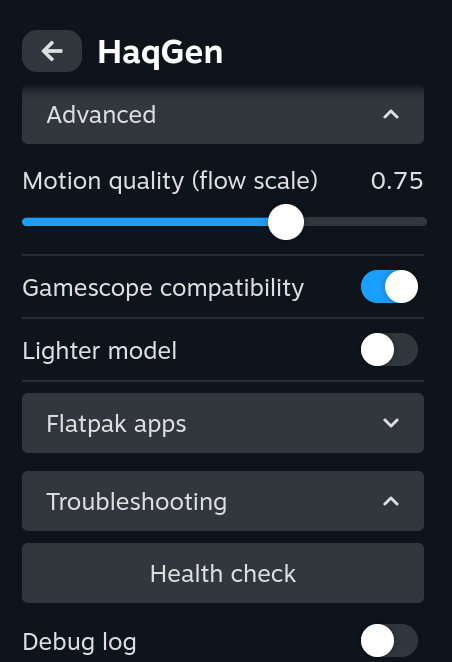
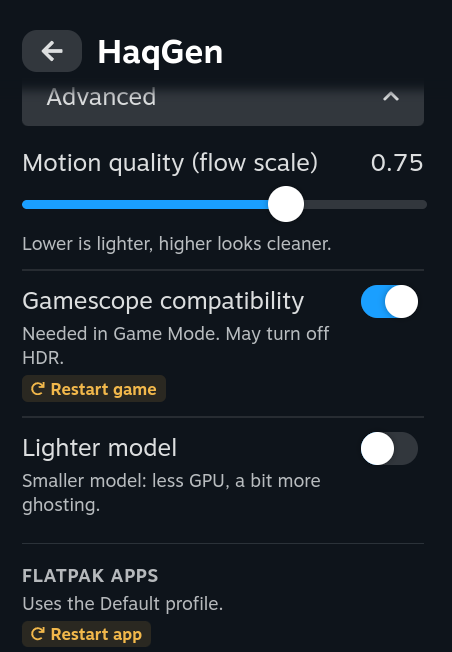
Update the site for version 0.1.3

diff --git a/index.html b/index.html
@@ -26,7 +26,7 @@
     "description": "Decky Loader plugin that sets up and controls Lossless Scaling frame generation (lsfg-vk) on the Steam Deck.",
     "applicationCategory": "GameApplication",
     "operatingSystem": "SteamOS",
-    "softwareVersion": "0.1.2",
+    "softwareVersion": "0.1.3",
     "url": "https://enotherms.github.io/HaqGen/",
     "downloadUrl": "https://github.com/Enotherms/HaqGen/releases",
     "codeRepository": "https://github.com/Enotherms/HaqGen",
@@ -189,7 +189,7 @@
 
   <header class="wrap hero">
     <div>
-      <span class="badge"><span class="dot"></span>Version 0.1.2 · Free and open source</span>
+      <span class="badge"><span class="dot"></span>Version 0.1.3 · Free and open source</span>
       <div class="brand">
         <img src="logo.svg" alt="HaqGen logo" width="72" height="72">
         <h1>HaqGen</h1>
@@ -208,8 +208,8 @@
       <p class="meta">Decky Loader plugin · Lossless Scaling (lsfg-vk) · Optional HaqEngine</p>
     </div>
     <div class="shots">
-      <figure class="shot"><img src="screenshot-main.png" alt="HaqGen main controls: profile, frame generation slider and presets" width="452" height="660"></figure>
-      <figure class="shot back"><img src="screenshot-advanced.png" alt="HaqGen advanced settings and troubleshooting" width="452" height="662"></figure>
+      <figure class="shot"><img src="screenshot-main.png" alt="HaqGen frame generation controls: profile, multiplier and restart note" width="452" height="660"></figure>
+      <figure class="shot back"><img src="screenshot-advanced.png" alt="HaqGen advanced settings with short descriptions and restart notes" width="452" height="652"></figure>
     </div>
   </header>
 
@@ -283,11 +283,11 @@
           <ul>
             <li>Needs no Lossless Scaling DLL.</li>
             <li>About 2 ms of GPU time per real frame at 1280×800.</li>
-            <li>Choose lsfg-vk or HaqEngine per game in HaqGen 0.1.2 and newer.</li>
+            <li>Install it with one button in HaqGen 0.1.3 and newer, then choose lsfg-vk or HaqEngine per game.</li>
           </ul>
           <a class="button" href="https://github.com/Enotherms/HaqEngine/releases">Get HaqEngine</a>
         </div>
-        <figure class="shot"><img src="screenshot-engine.png" alt="HaqGen panel with the Engine choice between lsfg-vk and HaqEngine" width="452" height="642" loading="lazy"></figure>
+        <figure class="shot"><img src="screenshot-engine.png" alt="HaqGen Engine choice between lsfg-vk and HaqEngine, with restart notes" width="452" height="560" loading="lazy"></figure>
       </div>
     </section>
   </main>
